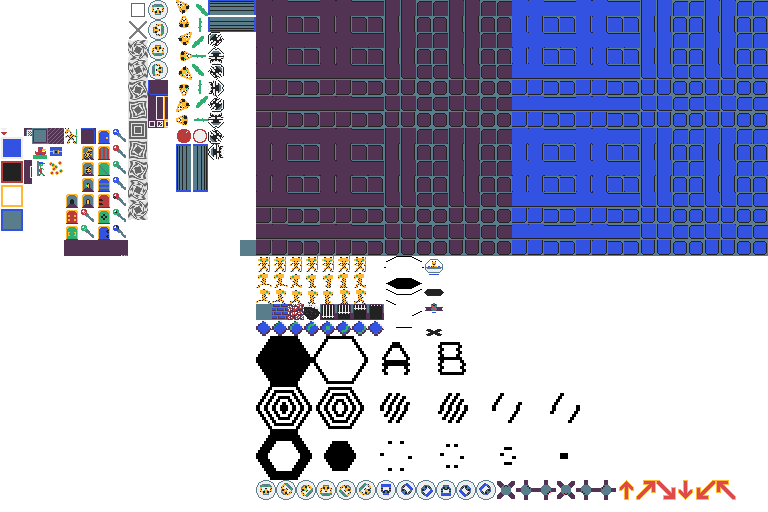
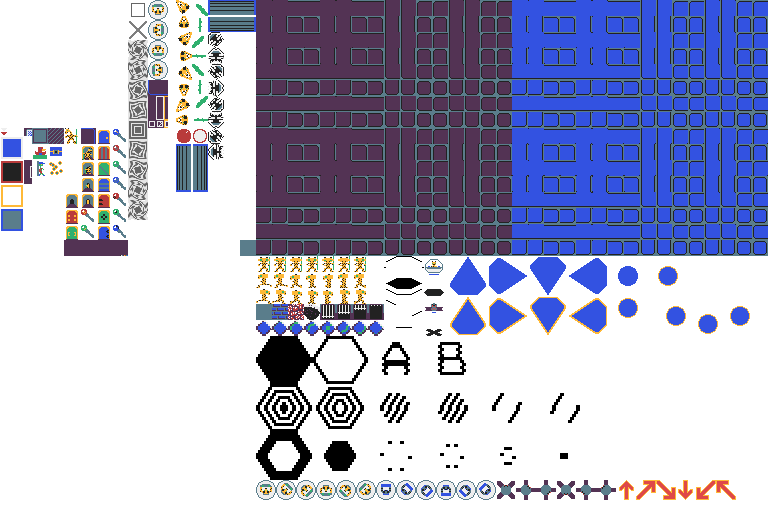
add graphics for onscreen GUI

Changed region(s): [[0.5625, 0.5, 1.0, 0.6562]]

diff --git a/libs/hex_twiddle/src/hex_twiddle.rs b/libs/hex_twiddle/src/hex_twiddle.rs
@@ -1124,7 +1124,7 @@ impl State {
         
 
         // TODO either add a way to pan the screen, or ensure that the twiddles that move hexes off screen are not allowed
-        //      Current seems like a pan control on the side that you can move the selectrix to would make sense
+        //      Currently seems like a pan control on the side that you can move the selectrix to would make sense
         //          Simplest to implement design is probably 4 (6?) buttons
         //          Another option would be like a virtual joystick thing that you can press A to grip and then move around smoothly
         //          Could put in both?
@@ -1206,7 +1206,7 @@ impl State {
                         UiMode::ContextMenuOpen { selection } => {
                             let menu_options = get_available_menu_options(&self.mobs, self.selectrum_at);
 
-                            // TODO disallow the move piece option if there is no player piece there
+
                             if input.pressed_this_frame(Button::UP) {
                                 if *selection == 0 {
                                     *selection = menu_options .len();
@@ -1731,5 +1731,17 @@ impl State {
                 draw_selectrum!();
             }
         }
+
+        let sidebar_w = unscaled::W(128);
+
+        commands.nine_slice(
+            gfx::nine_slice::INVENTORY,
+            unscaled::Rect {
+                x: unscaled::X(0) + unscaled::W(command::WIDTH) - sidebar_w,
+                y: unscaled::Y(0),
+                w: sidebar_w,
+                h: unscaled::H(command::HEIGHT),
+            },
+        );
     }
 }